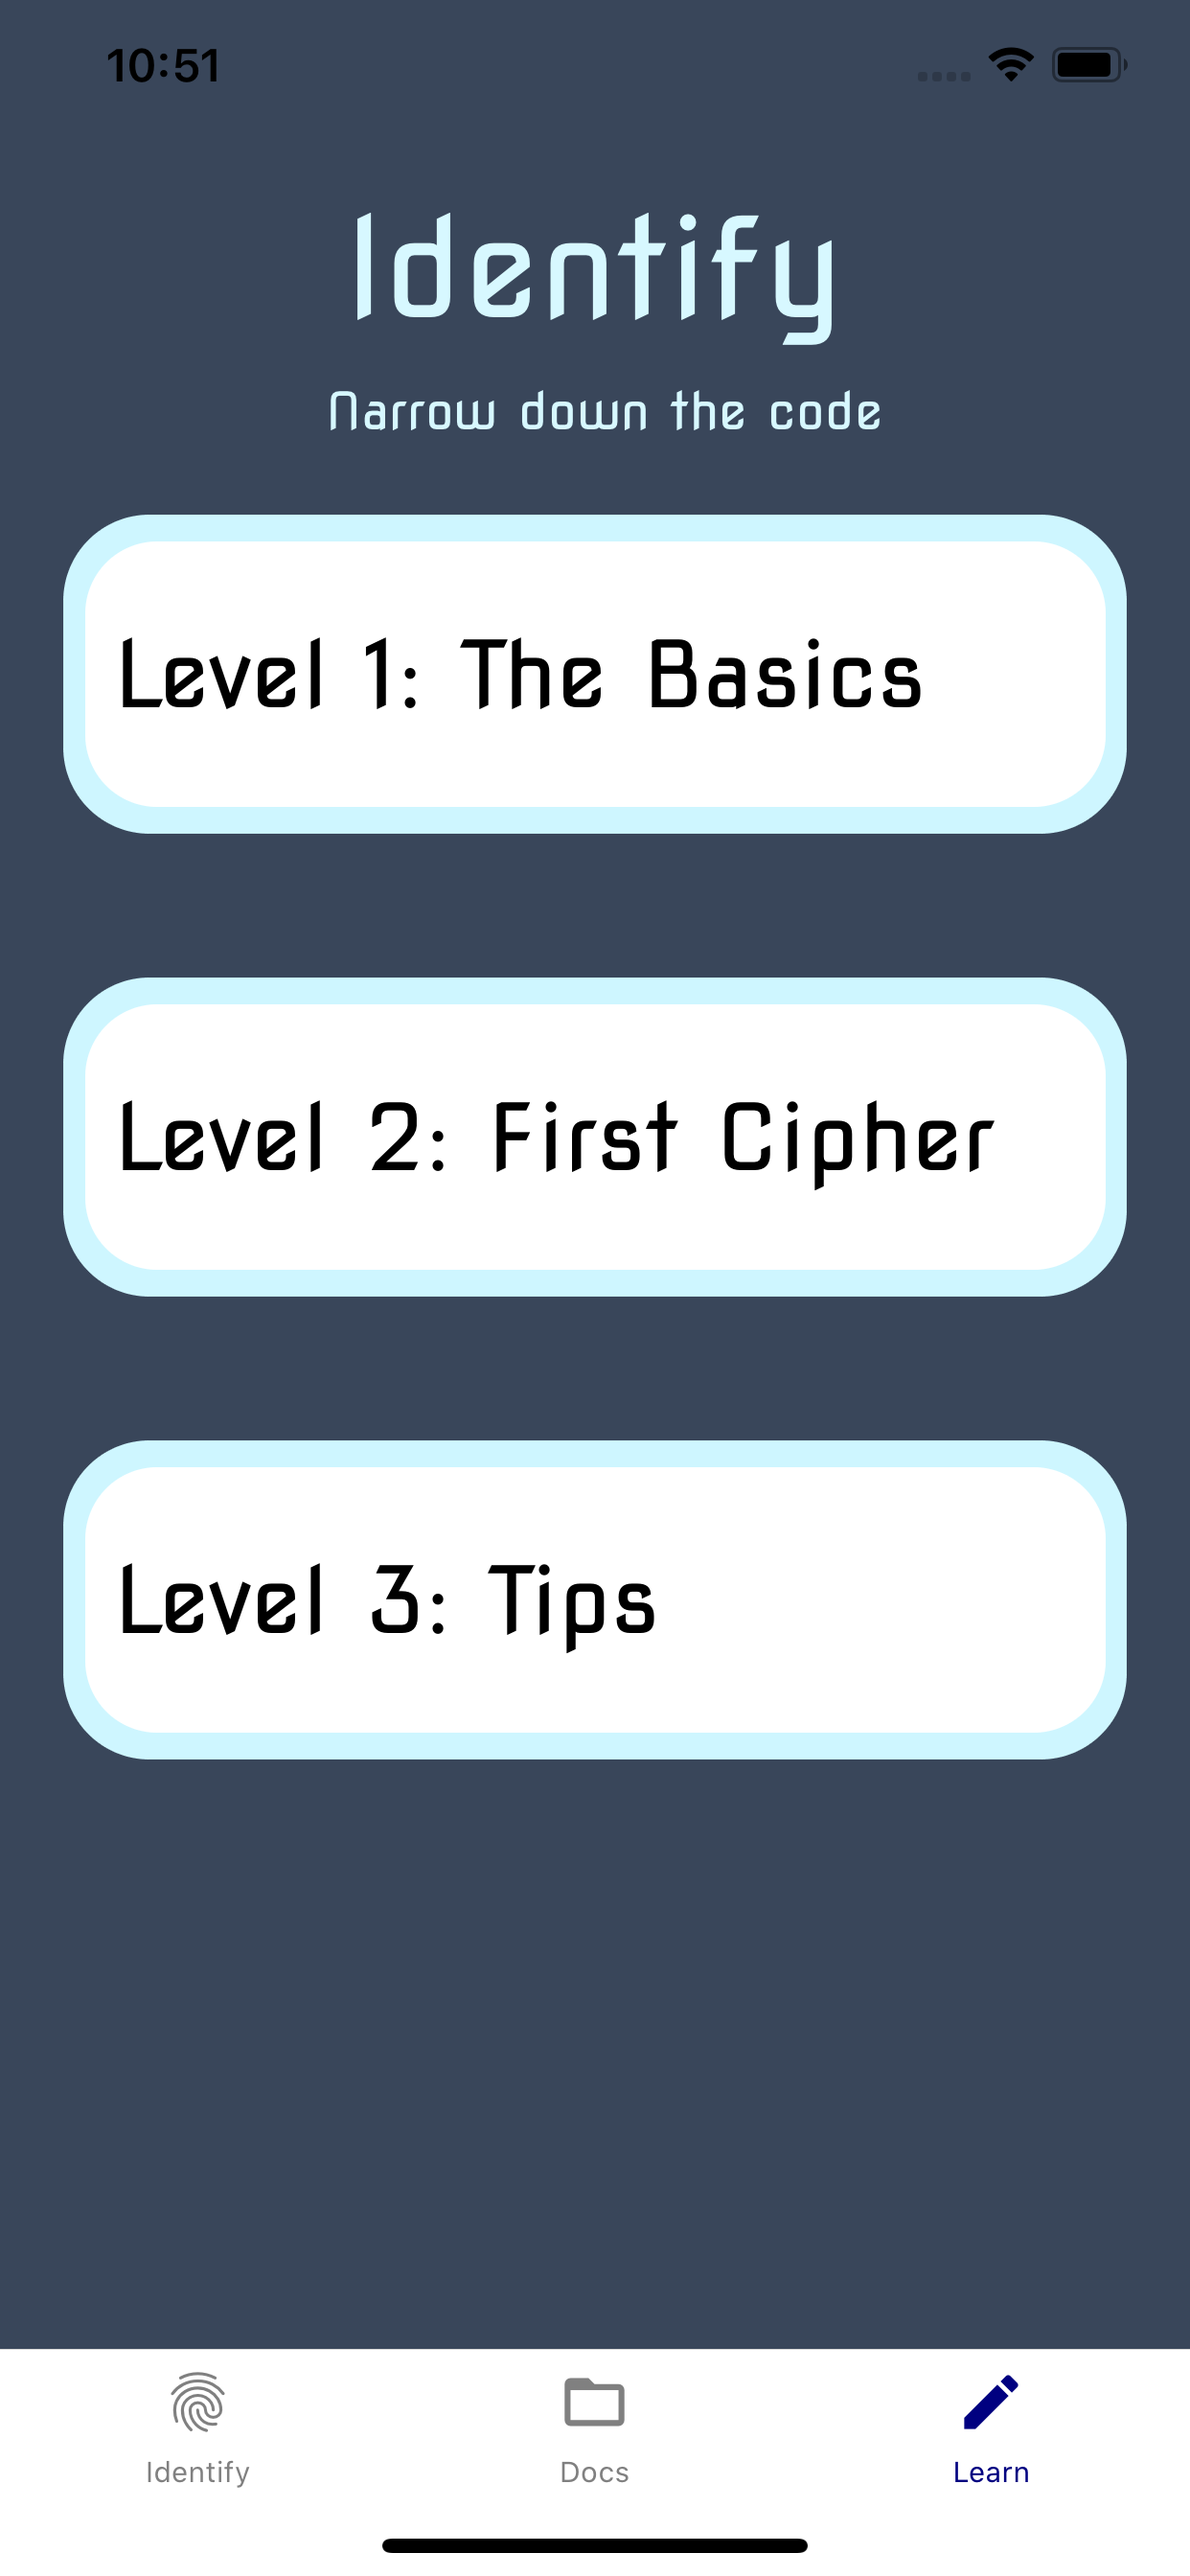
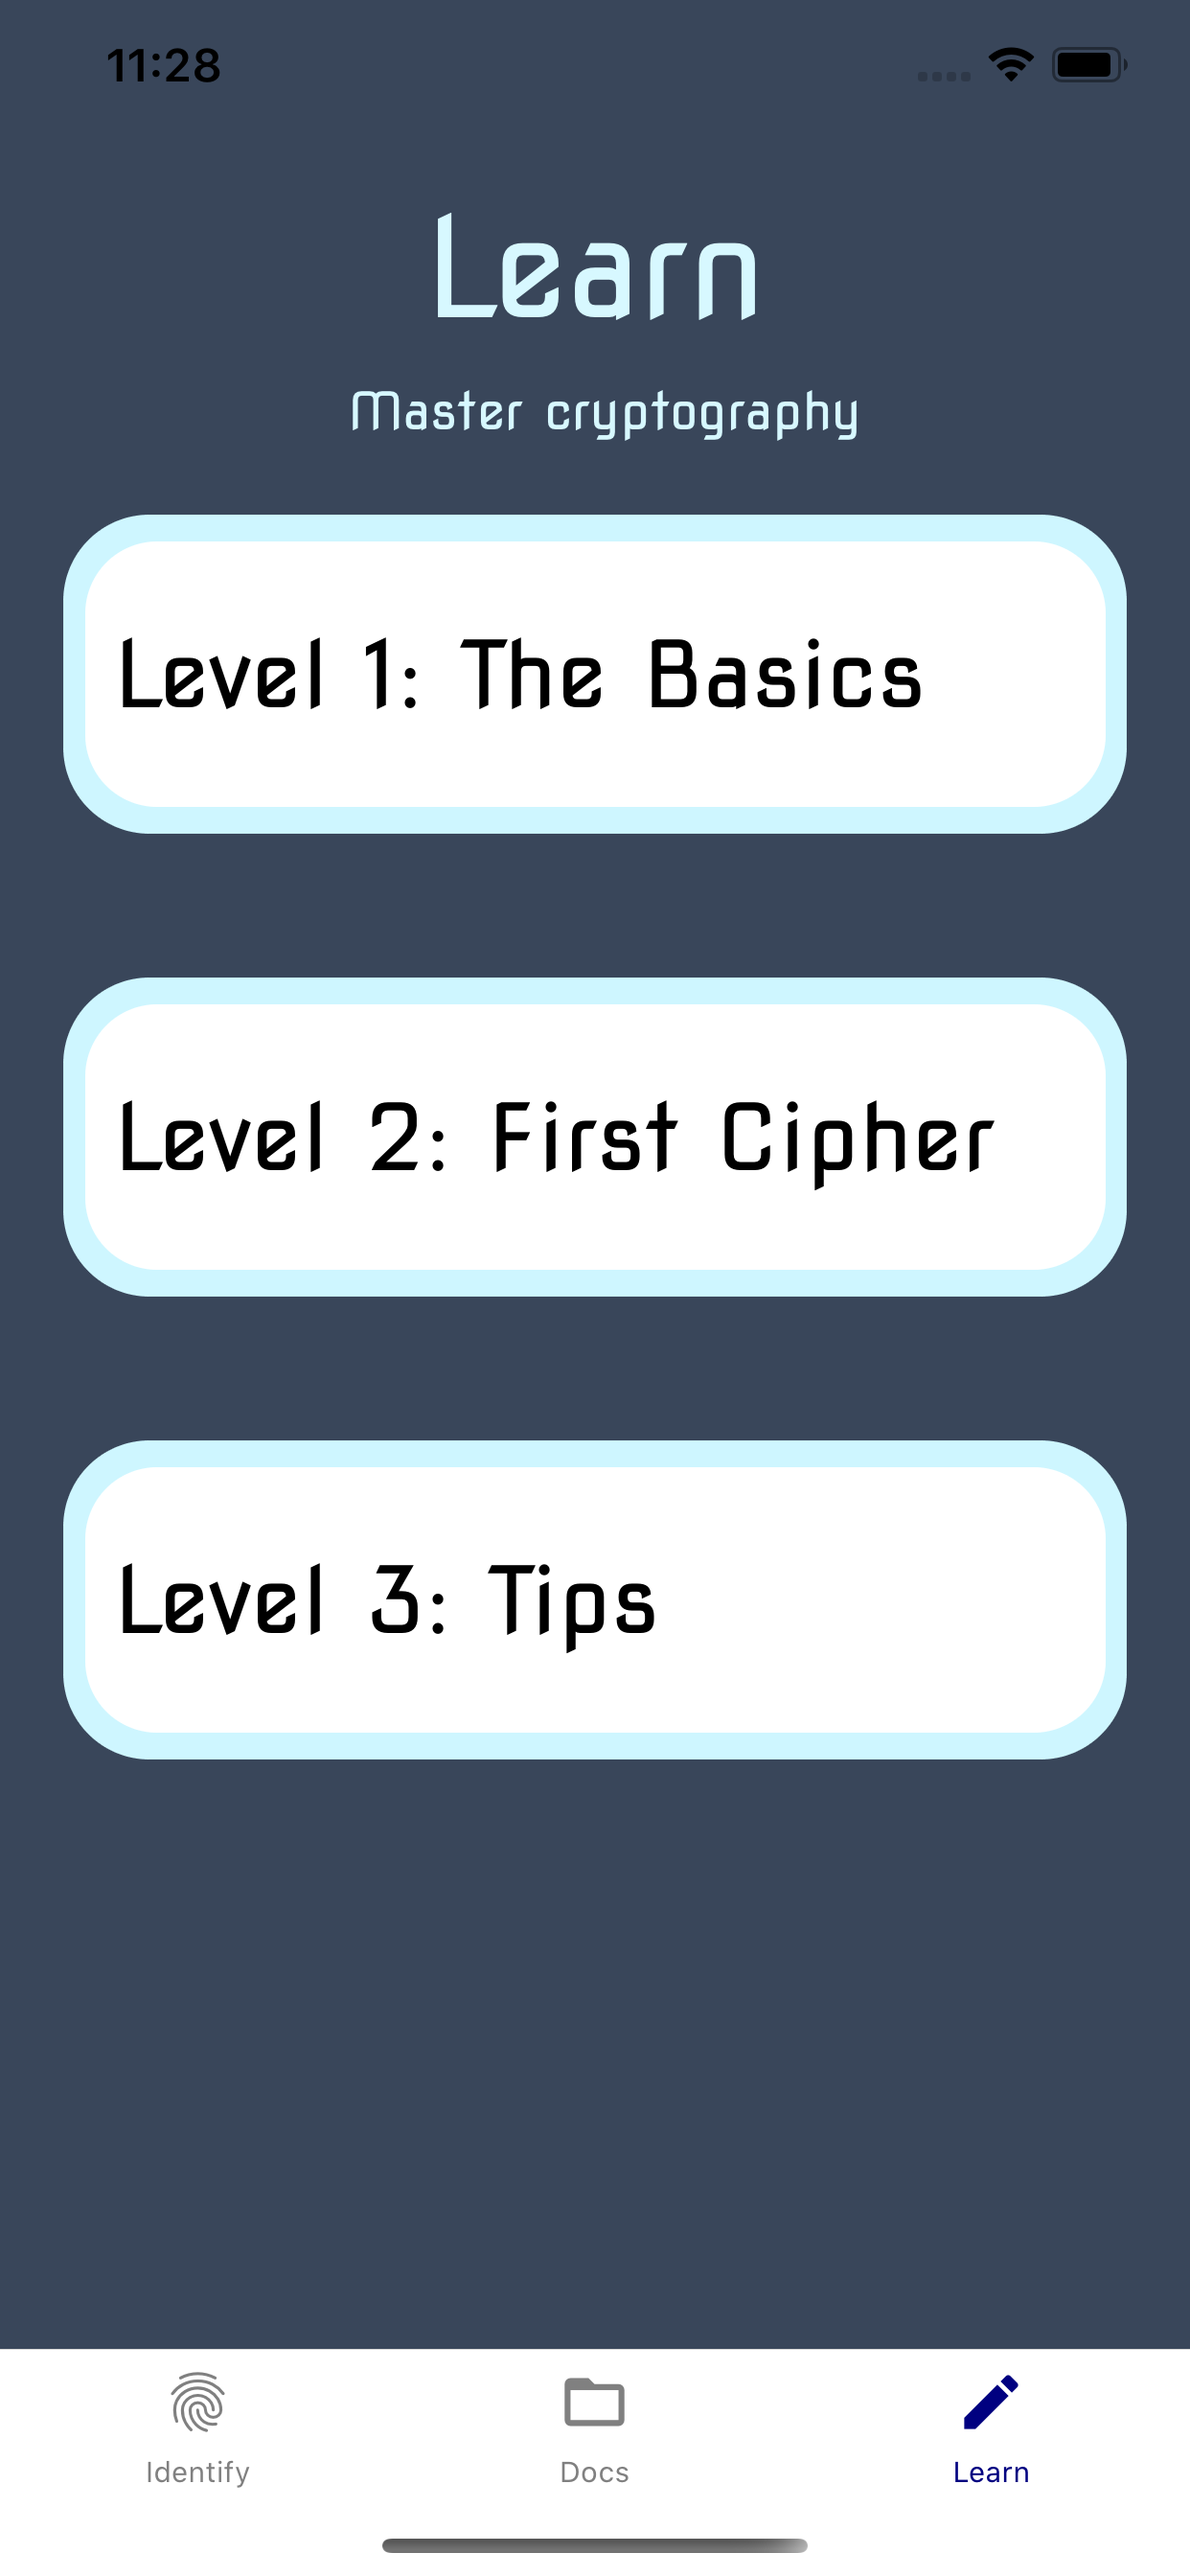
Update screenshots

diff --git a/screens/Learn.js b/screens/Learn.js
@@ -23,8 +23,8 @@ const Learn = ({ navigation }) => {
     return (
       <SafeAreaView style={styles.container}>
         <View>
-          <Text style={styles.titleText}>Identify</Text>
-          <Text style={styles.subTitleText}> Narrow down the code</Text>
+          <Text style={styles.titleText}>Learn</Text>
+          <Text style={styles.subTitleText}> Master cryptography</Text>
         </View>
         <View>
           <View>
